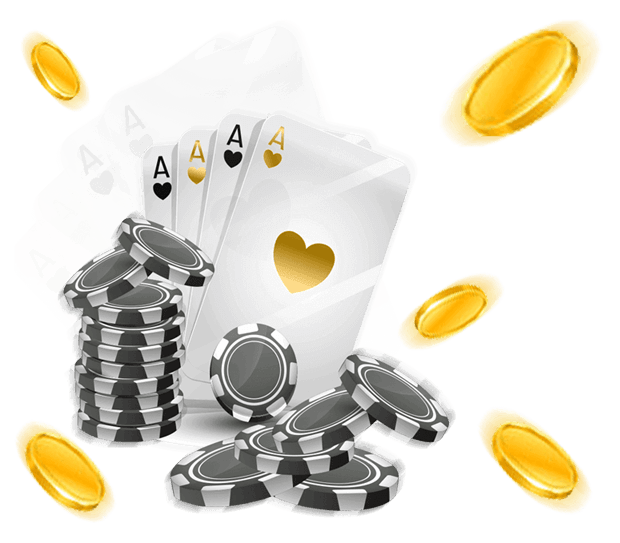
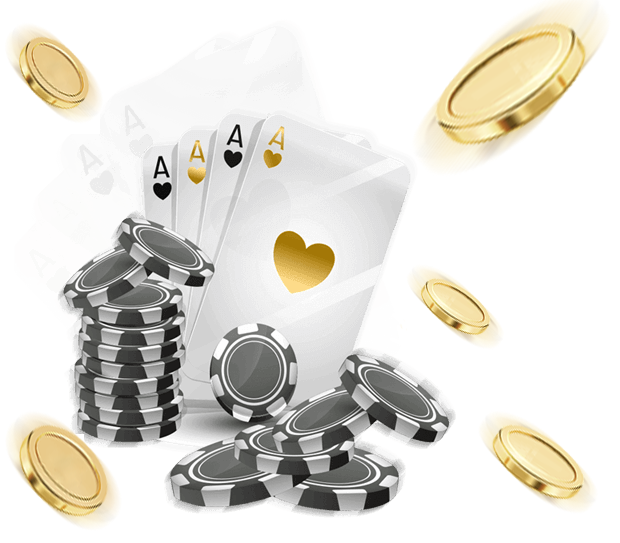
190729

diff --git a/css/CustomStyle.css b/css/CustomStyle.css
@@ -199,6 +199,7 @@ body {
 
 .wrap section.PageBox .PBi-02 .box02 img {
   margin-top: 15px;
+  width: 100%;
 }
 
 .wrap section.PageBox .PBi-03 {
@@ -449,13 +450,60 @@ body {
   height: auto;
 }
 
-.wrap section.PageBox .PBi-06:after {
+.wrap section.PageBox .PBi-06:before {
   content: url(../images/pg06/item-bottom.png);
   position: absolute;
   bottom: 0;
   left: 0;
   width: 100%;
   height: 200px;
+}
+
+.wrap section.PageBox .PBi-06:after {
+  content: url(../images/pg06/item-bottom-shine.png);
+  position: absolute;
+  bottom: 0;
+  left: 0;
+  width: 100%;
+  height: 200px;
+  -webkit-animation: opacity-change .9s ease-in-out infinite;
+  animation: opacity-change .9s ease-in-out infinite;
+}
+
+@-webkit-keyframes opacity-change {
+  0% {
+    opacity: 0;
+  }
+  25% {
+    opacity: .5;
+  }
+  50% {
+    opacity: 1;
+  }
+  75% {
+    opacity: .5;
+  }
+  100% {
+    opacity: 0;
+  }
+}
+
+@keyframes opacity-change {
+  0% {
+    opacity: 0;
+  }
+  25% {
+    opacity: .5;
+  }
+  50% {
+    opacity: 1;
+  }
+  75% {
+    opacity: .5;
+  }
+  100% {
+    opacity: 0;
+  }
 }
 
 .wrap section.PageBox .PBi-01 .box02 .PCBox, .wrap section.PageBox .PBi-03 .PCBox {
@@ -650,6 +698,169 @@ body {
   transform: translate3d(0, 0, 0);
   opacity: 1;
   transition-delay: .8s;
+}
+
+@media screen and (max-width: 1500px) {
+  .wrap section.PageBox {
+    padding: 0 20px;
+  }
+  .wrap section.PageBox .PBi-01 .box01 .ImgItemBox.aaa .item {
+    opacity: 1;
+  }
+  .wrap section.PageBox .PBi-01 .box01 .ImgItemBox.aaa .pg01-part-1 {
+    -webkit-transform: translate(595px, 630px);
+    transform: translate(595px, 630px);
+  }
+  .wrap section.PageBox .PBi-01 .box01 .ImgItemBox.aaa .pg01-part-2 {
+    -webkit-transform: translate(205px, 490px);
+    transform: translate(205px, 490px);
+  }
+  .wrap section.PageBox .PBi-01 .box01 .ImgItemBox.aaa .pg01-part-3 {
+    -webkit-transform: translate(190px, 230px);
+    transform: translate(190px, 230px);
+  }
+  .wrap section.PageBox .PBi-01 .box01 .ImgItemBox.aaa .pg01-part-4 {
+    -webkit-transform: translate(-130px, -120px);
+    transform: translate(-130px, -120px);
+  }
+  .wrap section.PageBox .PBi-01 .box02 {
+    right: 40px;
+    top: 320px;
+    position: absolute;
+  }
+  .wrap section.PageBox .PBi-01 .box02 h2, .wrap section.PageBox .PBi-01 .box02 h3 {
+    display: inline-block;
+  }
+  .wrap section.PageBox .PBi-01 .box02 h2 {
+    margin-top: 50px;
+    margin-bottom: 25px;
+    position: relative;
+  }
+  .wrap section.PageBox .PBi-01 .box02 h2 span {
+    font-size: 3.47222vw;
+  }
+  .wrap section.PageBox .PBi-01 .box02 .txt {
+    font-size: 2.22222vw;
+  }
+}
+
+@media screen and (max-width: 1336px) {
+  .wrap section.PageBox {
+    padding: 0 20px;
+  }
+  .wrap section.PageBox .PBi-01 .box01 .ImgItemBox.aaa .item {
+    opacity: 1;
+  }
+  .wrap section.PageBox .PBi-01 .box01 .ImgItemBox.aaa .pg01-part-1 {
+    -webkit-transform: translate(510px, 600px);
+    transform: translate(510px, 600px);
+  }
+  .wrap section.PageBox .PBi-01 .box01 .ImgItemBox.aaa .pg01-part-2 {
+    -webkit-transform: translate(120px, 460px);
+    transform: translate(120px, 460px);
+  }
+  .wrap section.PageBox .PBi-01 .box01 .ImgItemBox.aaa .pg01-part-3 {
+    -webkit-transform: translate(110px, 200px);
+    transform: translate(110px, 200px);
+  }
+  .wrap section.PageBox .PBi-01 .box01 .ImgItemBox.aaa .pg01-part-4 {
+    -webkit-transform: translate(-230px, -120px);
+    transform: translate(-230px, -120px);
+  }
+  .wrap section.PageBox:nth-child(1) {
+    background-position: -30% 70%;
+  }
+}
+
+@media screen and (max-width: 1280px) {
+  .wrap section.PageBox {
+    padding: 0 20px;
+  }
+  .wrap section.PageBox .PBi-01 .box01 .ImgItemBox.aaa .item {
+    opacity: 1;
+  }
+  .wrap section.PageBox .PBi-01 .box01 .ImgItemBox.aaa .pg01-part-1 {
+    -webkit-transform: translate(500px, 580px);
+    transform: translate(500px, 580px);
+  }
+  .wrap section.PageBox .PBi-01 .box01 .ImgItemBox.aaa .pg01-part-2 {
+    -webkit-transform: translate(110px, 440px);
+    transform: translate(110px, 440px);
+  }
+  .wrap section.PageBox .PBi-01 .box01 .ImgItemBox.aaa .pg01-part-3 {
+    -webkit-transform: translate(100px, 180px);
+    transform: translate(100px, 180px);
+  }
+  .wrap section.PageBox .PBi-01 .box01 .ImgItemBox.aaa .pg01-part-4 {
+    -webkit-transform: translate(-230px, -120px);
+    transform: translate(-230px, -120px);
+  }
+  .wrap section.PageBox:nth-child(1) {
+    background-position: -40% 100%;
+  }
+}
+
+@media screen and (max-width: 1024px) {
+  .wrap section.PageBox {
+    padding: 0 20px;
+  }
+  .wrap section.PageBox .PBi-01 .box01 .ImgItemBox.aaa .item {
+    opacity: 1;
+  }
+  .wrap section.PageBox .PBi-01 .box01 .ImgItemBox.aaa .pg01-part-1 {
+    width: 20%;
+    -webkit-transform: translate(330px, 135px);
+    transform: translate(330px, 135px);
+  }
+  .wrap section.PageBox .PBi-01 .box01 .ImgItemBox.aaa .pg01-part-2 {
+    width: 100%;
+    max-width: 20%;
+    -webkit-transform: translate(25px, 40px);
+    transform: translate(25px, 40px);
+  }
+  .wrap section.PageBox .PBi-01 .box01 .ImgItemBox.aaa .pg01-part-3 {
+    -webkit-transform: translate(5px, -190px);
+    transform: translate(5px, -190px);
+  }
+  .wrap section.PageBox .PBi-01 .box01 .ImgItemBox.aaa .pg01-part-4 {
+    display: none;
+  }
+  .wrap section.PageBox .PBi-01 .box02 {
+    right: 40px;
+    top: 230px;
+    position: absolute;
+  }
+  .wrap section.PageBox .PBi-01 .box02 h2, .wrap section.PageBox .PBi-01 .box02 h3 {
+    display: inline-block;
+  }
+  .wrap section.PageBox .PBi-01 .box02 h2 {
+    margin-top: 50px;
+    margin-bottom: 25px;
+    position: relative;
+  }
+  .wrap section.PageBox .PBi-01 .box02 h2 span {
+    font-size: 5.85938vw;
+  }
+  .wrap section.PageBox .PBi-01 .box02 .txt {
+    font-size: 2.53906vw;
+  }
+  .wrap section.PageBox .PBi-02 .box01 h2 {
+    margin-bottom: 40px;
+  }
+  .wrap section.PageBox .PBi-04 .box01 {
+    -webkit-flex: auto;
+    flex: auto;
+  }
+  .wrap section.PageBox .PBi-05 .box01 h3 {
+    font-size: 28px;
+  }
+  .wrap section.PageBox:nth-child(1) {
+    background-image: url(../images/pg01/Imgbg-md.png);
+    background-position: left center;
+  }
+  .wrap h2 {
+    font-size: 3.90625vw;
+  }
 }
 
 @media screen and (max-width: 750px) {
